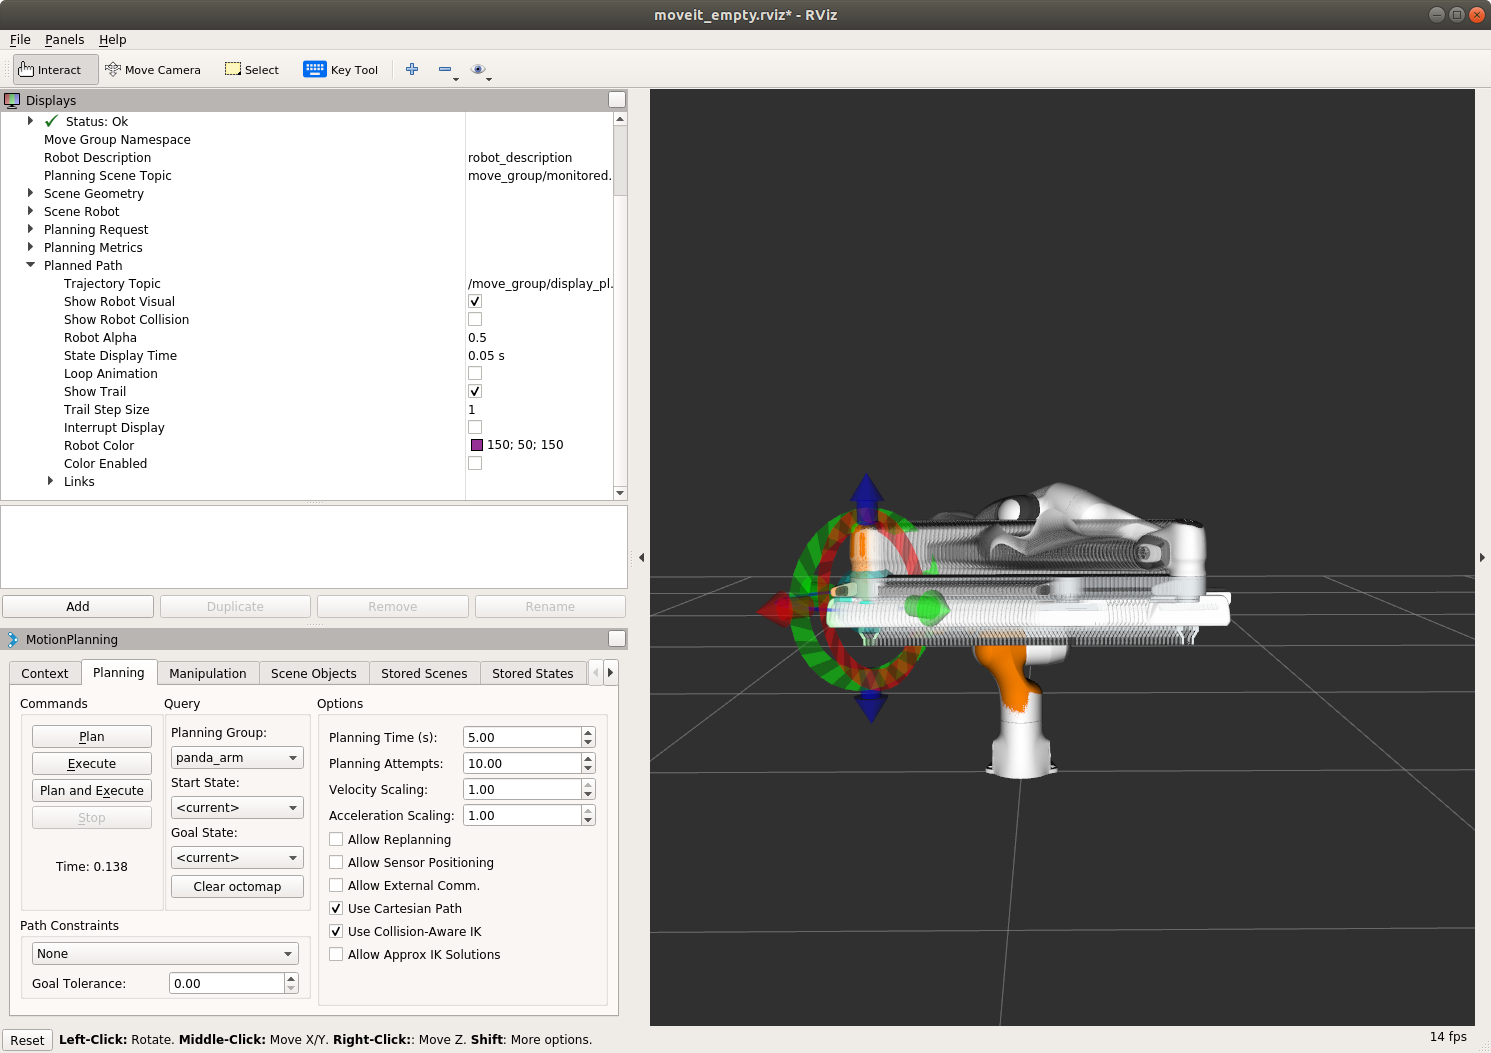
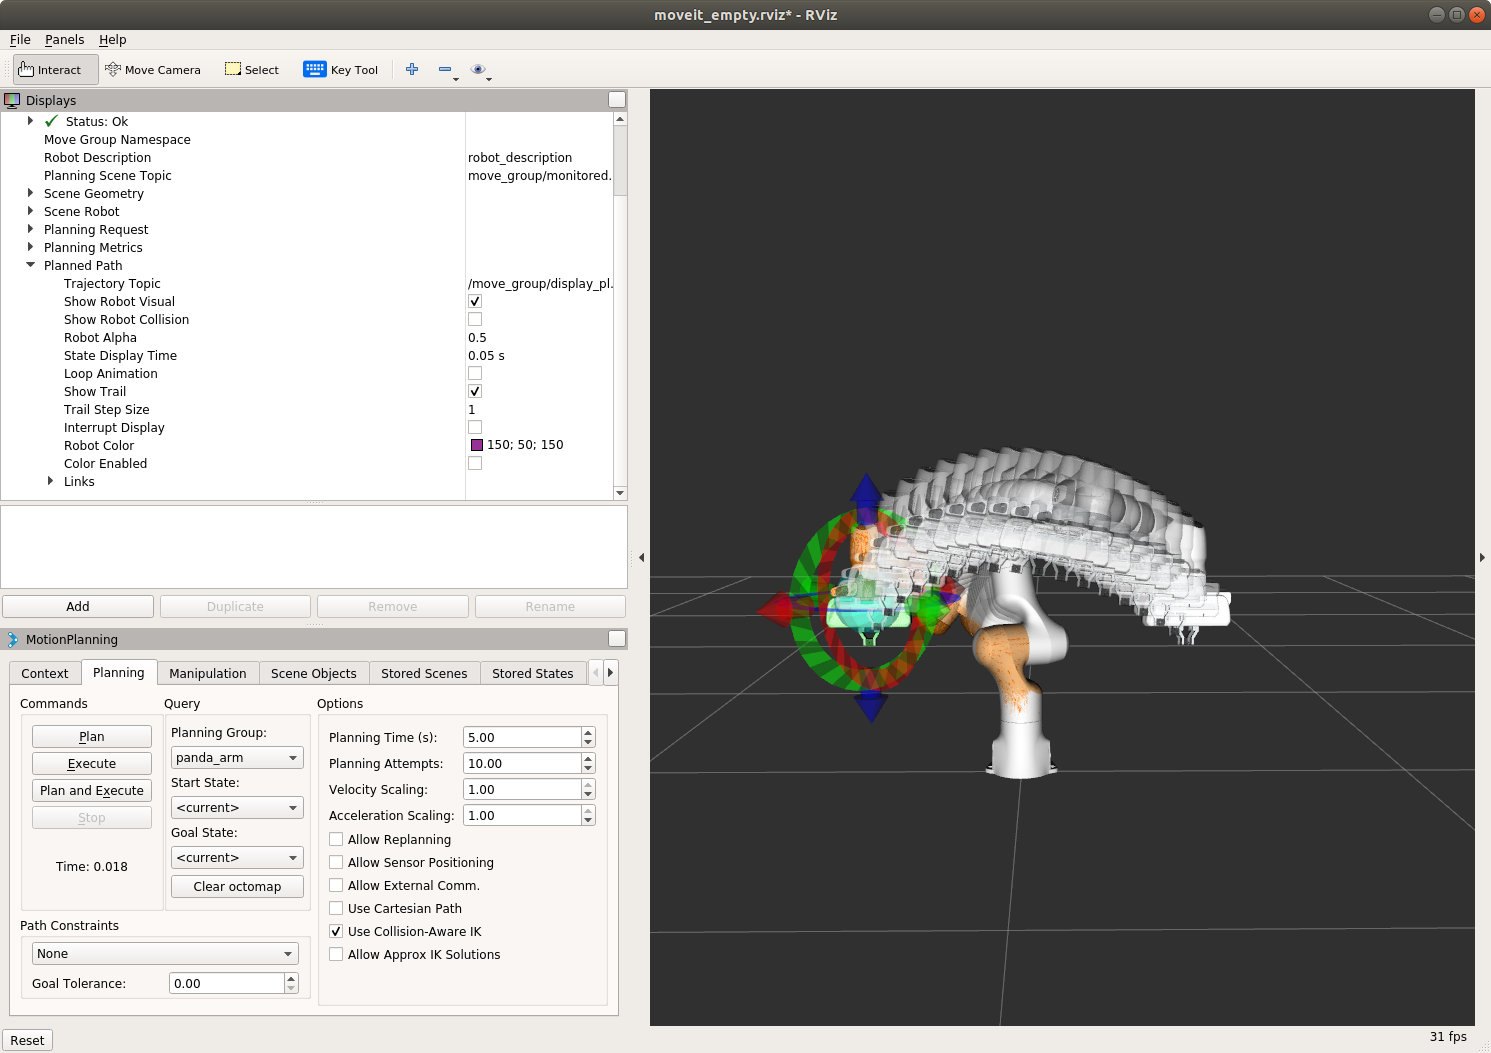
Integrate comments

Changed region(s): [[0.5245, 0.4255, 0.833, 0.6686], [0.0309, 0.9725, 0.4011, 1.0]]

diff --git a/doc/move_group_interface/src/move_group_interface_tutorial.cpp b/doc/move_group_interface/src/move_group_interface_tutorial.cpp
@@ -175,6 +175,11 @@ int main(int argc, char** argv)
   joint_group_positions[0] = -1.0;  // radians
   move_group.setJointValueTarget(joint_group_positions);
 
+  // We lower the allowed maximum velocity to 5% of its maximum. The default value is 10% (0.1).
+  // Change it in the joint_limits.yaml file of your robot's moveit_config or in your code if
+  // if you need your robot to move faster.
+  move_group.setMaxVelocityScalingFactor(0.05);
+
   success = (move_group.plan(my_plan) == moveit::planning_interface::MoveItErrorCode::SUCCESS);
   ROS_INFO_NAMED("tutorial", "Visualizing plan 2 (joint space goal) %s", success ? "" : "FAILED");
 
@@ -263,13 +268,6 @@ int main(int argc, char** argv)
   target_pose3.position.x -= 0.2;
   waypoints.push_back(target_pose3);  // up and left
 
-  // Cartesian motions are frequently required to be slow for actions such as approach and retreat
-  // grasp motions. Here we demonstrate how to reduce the speed of the robot arm via a scaling factor
-  // of the maximum speed of each joint. Note this is not the speed of the end effector point.
-  // Also note that the default value is 0.1, which can be changed in the joint_limits.yaml file 
-  // of your robot's moveit_config.
-  move_group.setMaxVelocityScalingFactor(0.05);
-
   // We want the Cartesian path to be interpolated at a resolution of 1 cm
   // which is why we will specify 0.01 as the max step in Cartesian
   // translation.  We will specify the jump threshold as 0.0, effectively disabling it.
@@ -290,10 +288,16 @@ int main(int argc, char** argv)
   visual_tools.trigger();
   visual_tools.prompt("Press 'next' in the RvizVisualToolsGui window to continue the demo");
 
+  // Cartesian motions should often be slow, e.g. when approaching objects. The speed of cartesian
+  // plans cannot currently be set through the maxVelocityScalingFactor, but requires you to time
+  // the trajectory manually, as described [here](https://groups.google.com/forum/#!topic/moveit-users/MOoFxy2exT4). 
+  // Pull requests are welcome.
+
   // You can execute a trajectory by wrapping it in a plan like this.
   moveit::planning_interface::MoveGroupInterface::Plan cartesian_plan;
   cartesian_plan.trajectory_ = trajectory;
   group.execute(cartesian_plan);
+
 
   // Adding/Removing Objects and Attaching/Detaching Objects
   // ^^^^^^^^^^^^^^^^^^^^^^^^^^^^^^^^^^^^^^^^^^^^^^^^^^^^^^^

diff --git a/doc/quickstart_in_rviz/quickstart_in_rviz_tutorial.rst b/doc/quickstart_in_rviz/quickstart_in_rviz_tutorial.rst
@@ -131,7 +131,7 @@ Note what happens when you try to move an end-effector out of its reachable work
 
 Moving Joints or in Null Space
 ++++++++++++++++++++++++++++++++++
-You can use the **Joints** tab to control single joints and to move the redundant joints of 7-DOF robots. Try moving the "null space exploration" slider as shown in the animation below.
+You can use the **Joints** tab to move single joints and the redundant joints of 7-DOF robots. Try moving the "null space exploration" slider as shown in the animation below.
 
 .. image:: rviz_joints_nullspace.webm
    :width: 700px
@@ -175,8 +175,7 @@ NOTE: Once you placed your EEF to a new goal, be sure to run `Plan` before runni
 Plan Cartesian motions
 ++++++++++++++++++++++++++++++++++
 
-
-If the "Use Cartesian Path" checkbox is activated, the plan will be 
+If the "Use Cartesian Path" checkbox is activated, the robot will attempt to move the end effector linearly in cartesian space.
 
 .. image:: rviz_plan_free.png
    :width: 700px
